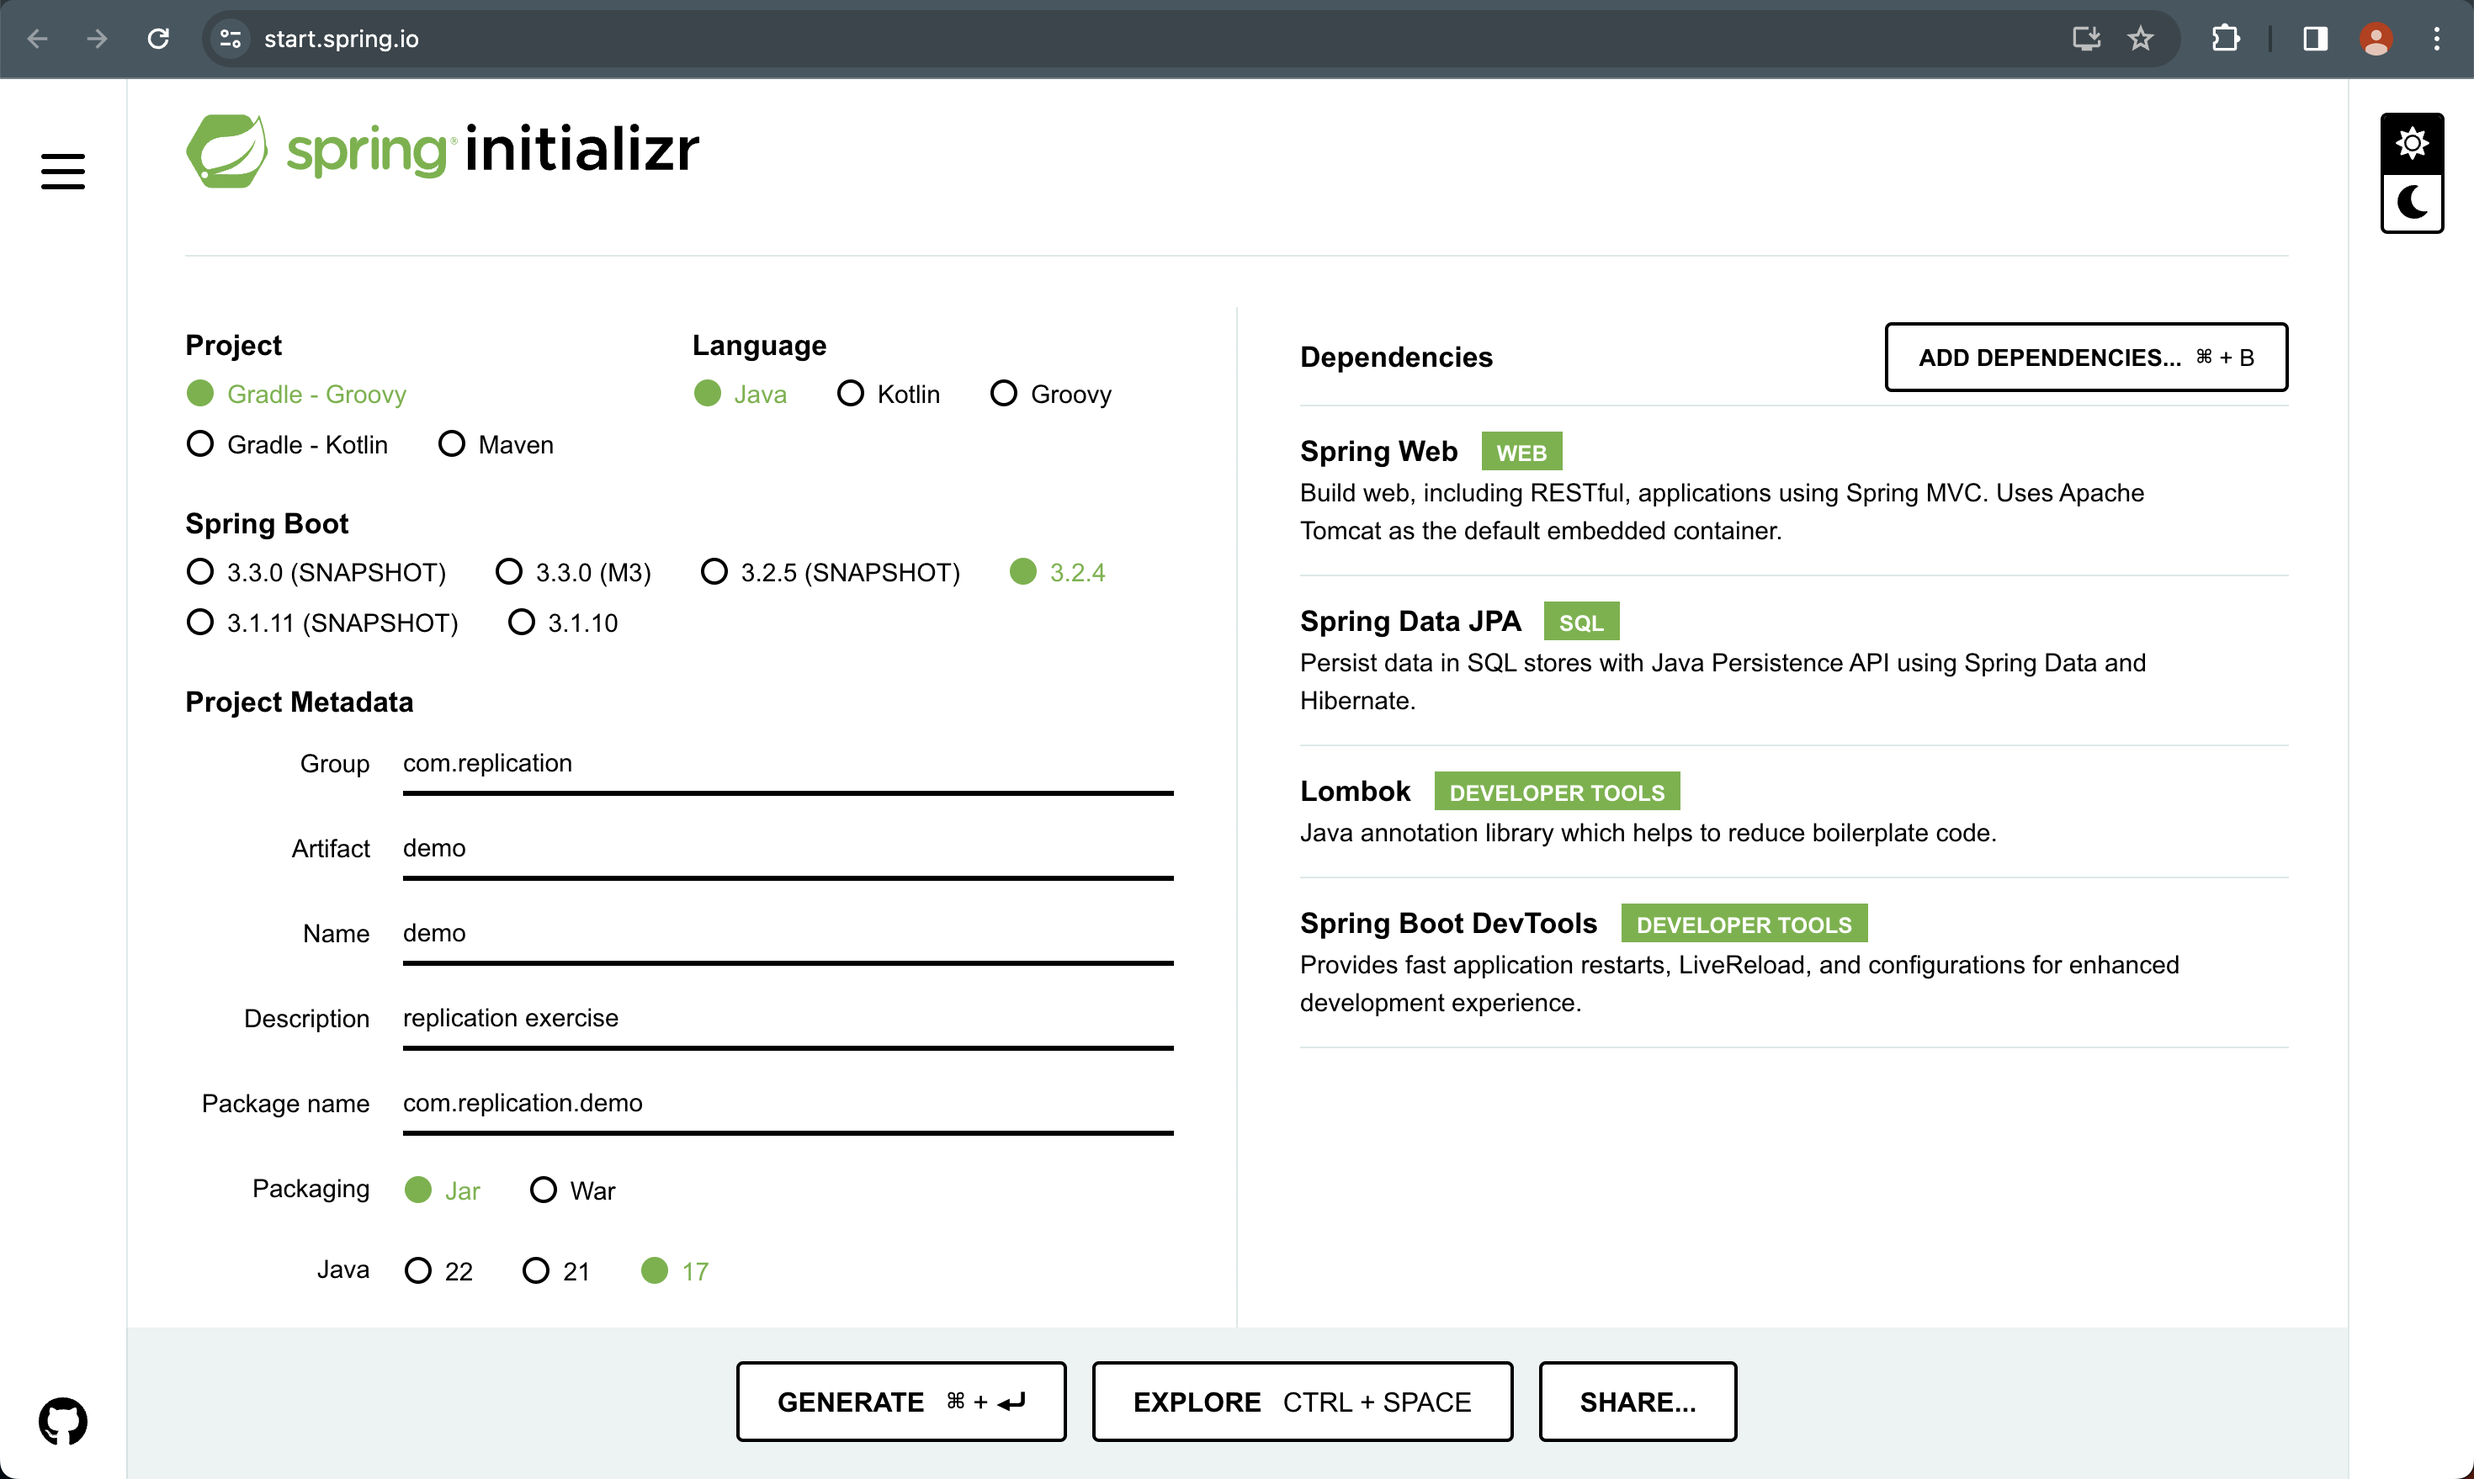
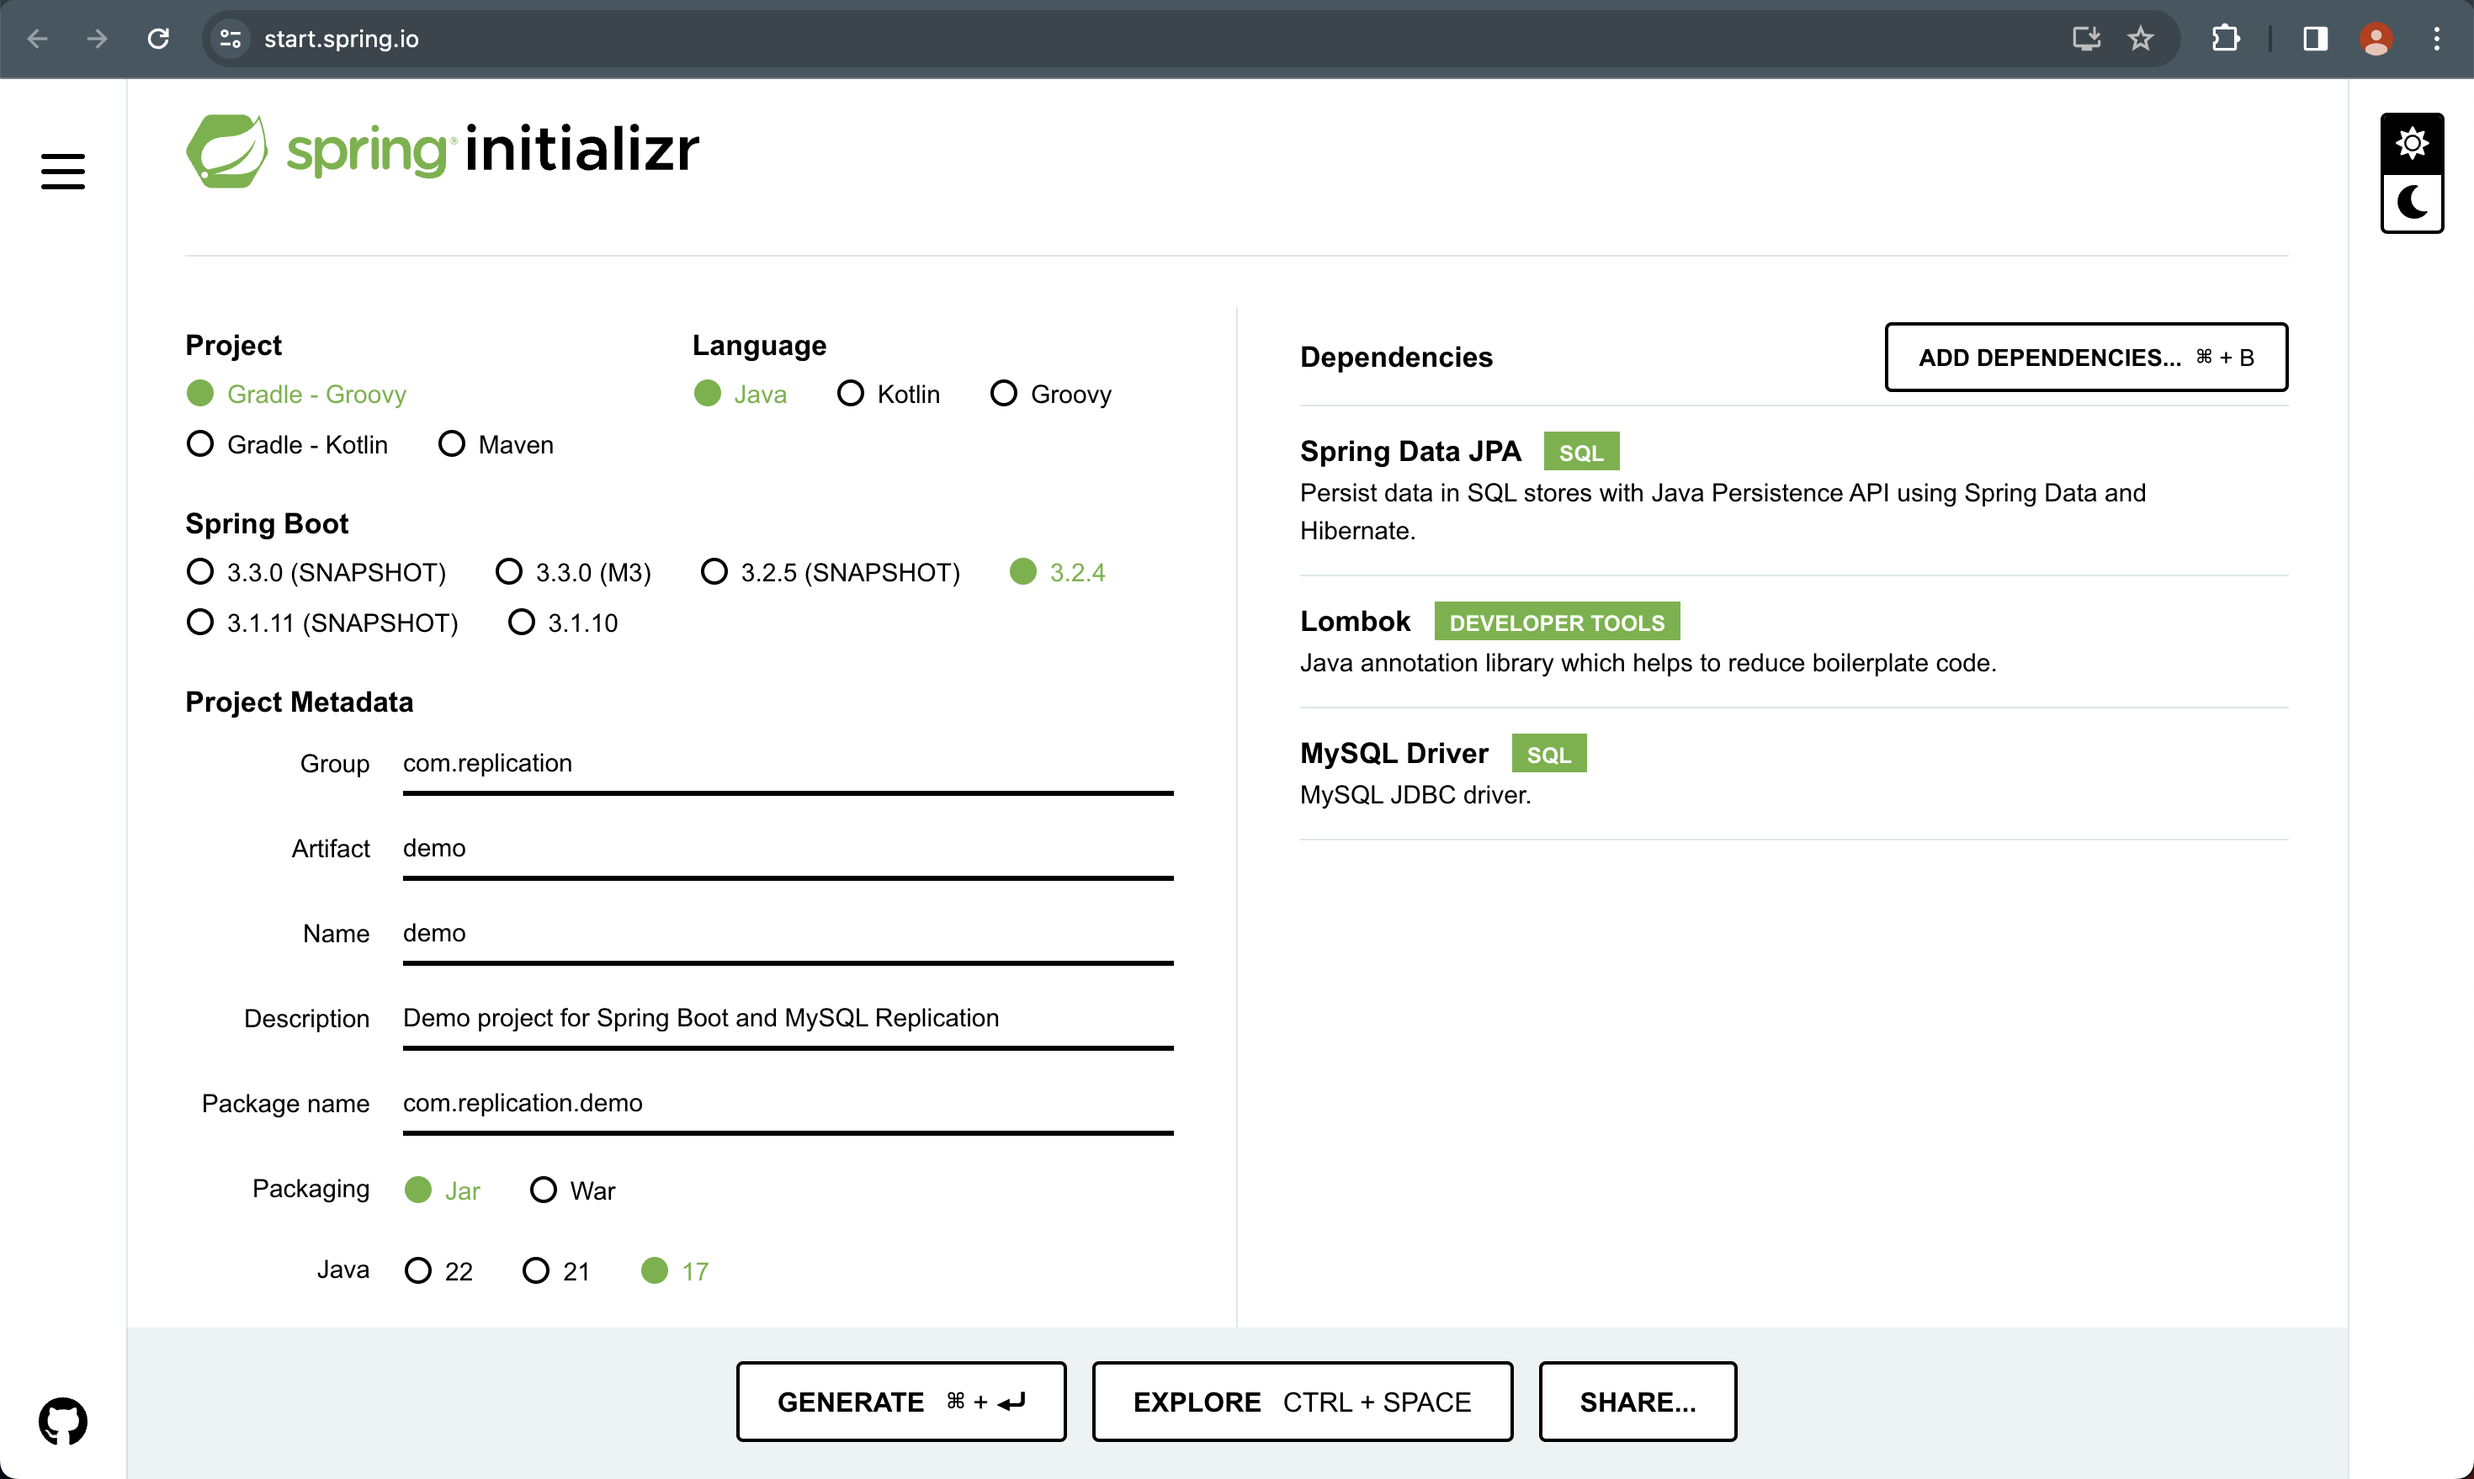
post : 240319

Changed region(s): [[0.5262, 0.3993, 0.8667, 0.7065], [0.5262, 0.2765, 0.8667, 0.3686], [0.1548, 0.6758, 0.4024, 0.7065]]

diff --git a/content/posts/240310_MySQL_SpringBoot_CQRS_패턴_구현을_위한_DB_이중화/240319_SpringBoot_DataSource_이중화(CQRS 패턴)_구현/index.md b/content/posts/240310_MySQL_SpringBoot_CQRS_패턴_구현을_위한_DB_이중화/240319_SpringBoot_DataSource_이중화(CQRS 패턴)_구현/index.md
@@ -36,7 +36,9 @@ editPost:
 
 1. [Springboot 프로젝트](https://start.spring.io)를 생성합니다.
 
-{{<figure src="springboot.png" caption="스프링부트 프로젝트를 위와 같이 생성합니다.">}}
+- 아래 사진과 같이 JPA, Lombok, MySQL Driver 의존성을 추가하겠습니다.
+
+{{<figure src="springboot.png" caption="스프링부트 프로젝트를 위와 같이 의존성을 추가하여 생성합니다.">}}
 
 2. build.gradle 실행
 
@@ -44,13 +46,62 @@ editPost:
 
 {{<figure src="gradle.png" caption="gradle로 프로젝트를 실행하면 자동으로 소스파일 경로가 생성됩니다.">}}
 
-## JpaConfig 설정
+## JpaConfig 클래스 생성
 
-- JpaConfig란??
+원래 스프링부트에 JPA 의존성을 추가하면 기본으로 설정된 DataSource를 불러와 사용하지만, 저번 시간에 분리한 Command(쓰기)와 Query(읽기) DB를 DataSource로 사용하기 위해 다음과 같이 JpaConfig를 설정하겠습니다.
 
-## DataSource 구현
+```java
+package com.replication.demo.config; // config 패키지 생성
 
-### Command & Read DataSource 구현
+import org.springframework.context.annotation.Configuration;
+
+@Configuration // Spring에 자동으로 Bean을 등록하기 위함
+public class JpaConfig {}
+```
+
+## DataSource Bean 구현
+
+JpaConfig내부에 DataSource를 Bean으로 등록하면, 이후 Spring이 해당 Bean의 설정을 통해 JDBC를 구현하므로 펀리하게 DB에 접근할 수 있습니다.
+
+> 두 개의 DataSource를 각각 구현하고, Transaction시점에 필요한 DataSource를 결정할 수 있도록 Spring에서는 AbstractRoutingDataSource라는 추상클래스를 제공합니다.
+
+### Command & Read DataSource Bean 생성
+
+우선, 쓰기와 읽기 DataSource를 다음과 같이 JpaConfig 내부에서 Bean으로 등록합니다.
+
+```java
+@Configuration
+public class JpaConfig {
+  @Bean // 원본 DB와 연결된 DataSource
+  @Qualifier("commandDataSource")
+  public DataSource commandDataSource() {
+      HikariDataSource dataSource = DataSourceBuilder.create()
+              .driverClassName("com.mysql.cj.jdbc.Driver")
+              .url("jdbc:mysql://localhost:3307/target_db")
+              .username("master_user")
+              .password("1234")
+              .type(HikariDataSource.class)
+              .build();
+      dataSource.setMaximumPoolSize(2); // Pool Size도 설정 가능합니다.
+      return dataSource;
+  }
+
+  @Bean // Repl DB와 연결된 DataSource
+  @Qualifier("queryDataSource")
+  public DataSource queryDataSource() {
+      HikariDataSource dataSource = DataSourceBuilder.create()
+              .driverClassName("com.mysql.cj.jdbc.Driver")
+              .url("jdbc:mysql://localhost:3308/target_db")
+              .username("slave_user")
+              .password("1234")
+              .type(HikariDataSource.class)
+              .build();
+      dataSource.setMaximumPoolSize(5); // 보통 읽기전용 작업이 더 많기 때문에 크게 설정하겠습니다.
+  }
+}
+```
+
+> jdbc에서 사용하는 port 및 username과 password는 [저번 시간](https://leaf-nam.github.io/posts/240310_mysql_springboot_cqrs_%ED%8C%A8%ED%84%B4_%EA%B5%AC%ED%98%84%EC%9D%84_%EC%9C%84%ED%95%9C_db_%EC%9D%B4%EC%A4%91%ED%99%94/240313_mysql_replication_database_%EA%B5%AC%ED%98%84/#master-db-%EC%83%9D%EC%84%B1)에 생성한 DB 환경변수를 참고하시면 됩니다.
 
 ### RoutingDataSource 구현
 
